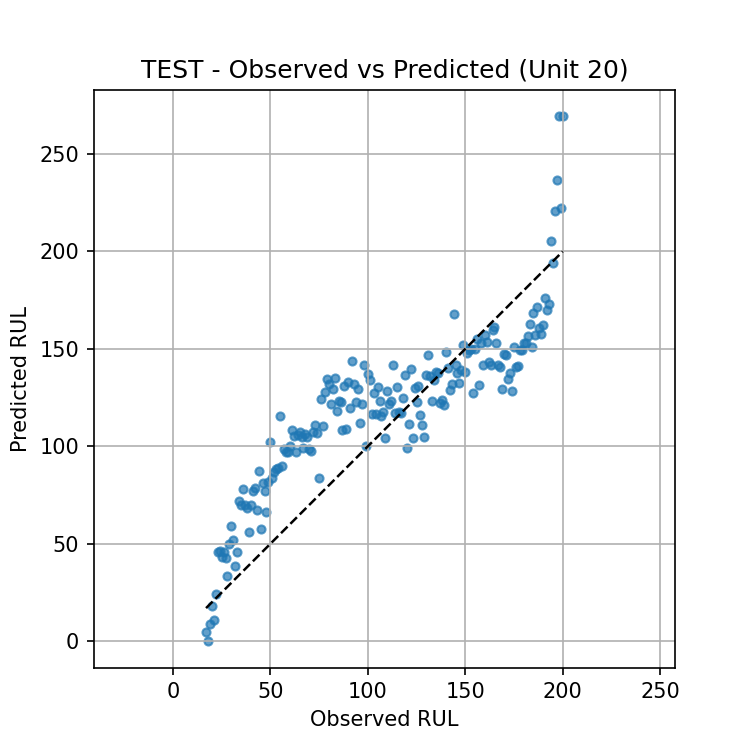
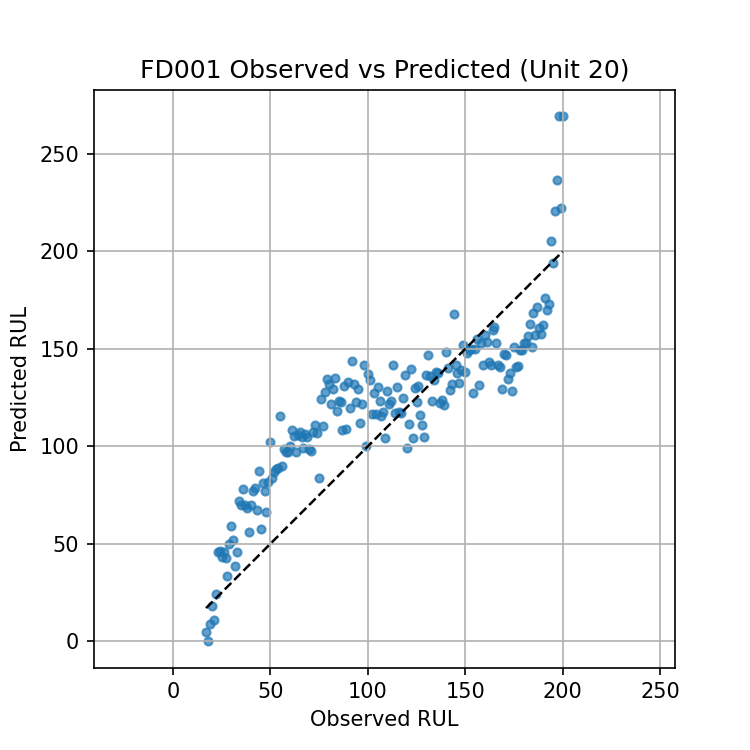
Computing Q2 value and new images

Changed region(s): [[0.184, 0.0613, 0.7667, 0.1227], [0.7973, 0.0613, 0.828, 0.1227]]

diff --git a/project_pls.py b/project_pls.py
@@ -218,21 +218,23 @@ def pls_groupcv_press_q2(X, Y, groups, maxLV=10, n_splits=5):
         "maxLV": PRESS_mean.size
     }
 
-def plot_lv_curves(res):
+def plot_lv_curves(res, prefix):
     xs = np.arange(1, res["maxLV"] + 1)
 
     plt.figure(figsize=(7,4.2))
     plt.plot(xs, res["PRESS_mean"], "-o", linewidth=1.3); plt.grid(True)
     plt.xlabel("Number of latent variables"); plt.ylabel("mean PRESS$_{CV}$")
     plt.title(f"PRESS$_{{CV}}$ (mean, K={res['Keff']})")
-    plt.axvline(res["press_best"], linestyle="--"); plt.show()
+    plt.axvline(res["press_best"], linestyle="--")
+    plt.savefig(f"press_best{prefix}.png")
 
     plt.figure(figsize=(7,4.2))
     plt.plot(xs, res["Q2_mean"], "-o", linewidth=1.3); plt.grid(True)
     plt.xlabel("Number of latent variables"); plt.ylabel("mean Q$^2_{CV}$")
     plt.title(f"Q$^2_{{CV}}$ (mean, K={res['Keff']})")
     ymin = min(-0.2, float(np.min(res["Q2_mean"])) - 0.05)
-    plt.ylim([ymin, 1.0]); plt.axvline(res["q2_best"], linestyle="--"); plt.show()
+    plt.ylim([ymin, 1.0]); plt.axvline(res["q2_best"], linestyle="--")
+    plt.savefig(f"q2_best{prefix}.png")
 
 
 # X1 = train_data1.iloc[:, 2:-1]
@@ -286,7 +288,15 @@ def final_training(train_data, validation_data, test_data, prefix="", n_componen
     mae = mean_absolute_error(Yv, Ypred)
     r2 = r2_score(Yv, Ypred)
 
-    print(f"Validation dataset metrics: RMSE={rmse:.3f}, MAE={mae:.3f}, R²={r2:.3f}")
+    # Q² (predictive ability) computed using training-set mean:
+    # Q² = 1 - PRESS / TSS, where PRESS = sum((Y_true - Y_pred)^2) and
+    # TSS = sum((Y_true - mean(Y_train))^2). Use a small eps to avoid div by 0.
+    press = np.sum((Yv - Ypred) ** 2)
+    Ymean_train = float(np.mean(Y1))
+    tss = np.sum((Yv - Ymean_train) ** 2)
+    q2 = 1.0 - press / max(tss, np.finfo(float).eps)
+
+    print(f"Validation dataset metrics: RMSE={rmse:.3f}, MAE={mae:.3f}, R²={r2:.3f}, Q²={q2:.3f}")
 
     # window = 25: RMSE=33.651, MAE=26.502, R²=0.737
     # window = 20: RMSE=34.457, MAE=27.083, R²=0.725
@@ -326,7 +336,7 @@ def final_training(train_data, validation_data, test_data, prefix="", n_componen
     plt.title(f"Validation - Residuals for Unit {unit_id}")
     plt.grid(True)
     plt.tight_layout()
-    plt.show()
+    plt.savefig(f"residuals{prefix}.png")
 
     # Observed vs Predicted (scatter)
     plt.figure(figsize=(5, 5))
@@ -337,7 +347,7 @@ def final_training(train_data, validation_data, test_data, prefix="", n_componen
     plt.title(f"Validation - Observed vs Predicted (Unit {unit_id})")
     plt.grid(True)
     plt.axis("equal")
-    plt.show()
+    plt.savefig(f"observed_vs_predicted{prefix}.png")
 
     # Predict on test
     Yt, Ypred = predict_on_df(model=pls2, df=test_data)
@@ -356,7 +366,13 @@ def final_training(train_data, validation_data, test_data, prefix="", n_componen
     mae = mean_absolute_error(Yt, Ypred)
     r2 = r2_score(Yt, Ypred)
 
-    print(f"Test dataset metrics: RMSE={rmse:.3f}, MAE={mae:.3f}, R²={r2:.3f}")
+    # Q² for test set (using training-set mean)
+    press = np.sum((Yt - Ypred) ** 2)
+    Ymean_train = float(np.mean(Y1))
+    tss = np.sum((Yt - Ymean_train) ** 2)
+    q2 = 1.0 - press / max(tss, np.finfo(float).eps)
+
+    print(f"Test dataset metrics: RMSE={rmse:.3f}, MAE={mae:.3f}, R²={r2:.3f}, Q²={q2:.3f}")
 
     # Test unit plot
     unit_id = test_unit_id
@@ -397,7 +413,7 @@ def final_training(train_data, validation_data, test_data, prefix="", n_componen
     plt.plot([Yunit.min(), Yunit.max()], [Yunit.min(), Yunit.max()], "k--", lw=1.2)
     plt.xlabel("Observed RUL")
     plt.ylabel("Predicted RUL")
-    plt.title(f"TEST - Observed vs Predicted (Unit {unit_id})")
+    plt.title(f"{prefix} Observed vs Predicted (Unit {unit_id})")
     plt.grid(True)
     plt.axis("equal")
     obs_fname = f"obs_vs_pred_test_unit_{unit_id}_{prefix}.png" if prefix else f"obs_vs_pred_test_unit_{unit_id}.png"
@@ -439,8 +455,11 @@ def main():
         g_cv = t_copy.iloc[:, 0]
 
         res = pls_groupcv_press_q2(X_cv.to_numpy(), Y_cv.to_numpy(), g_cv.to_numpy(), maxLV=10, n_splits=5)
-        plot_lv_curves(res)
+        plot_lv_curves(res, prefix)
         print(f"Best by PRESS: {res['press_best']}   Best by Q²: {res['q2_best']}")
+        print("TEST RESULTS: ", res)
+        print("qfolds: ", res["Q2_folds"])
+        print("qfolds max: ", np.max(res["Q2_folds"], axis=0))
 
         print(f"\n--- Running final training for {prefix} ---")
         final_training(train_d, val_d, test_d, prefix=prefix)
